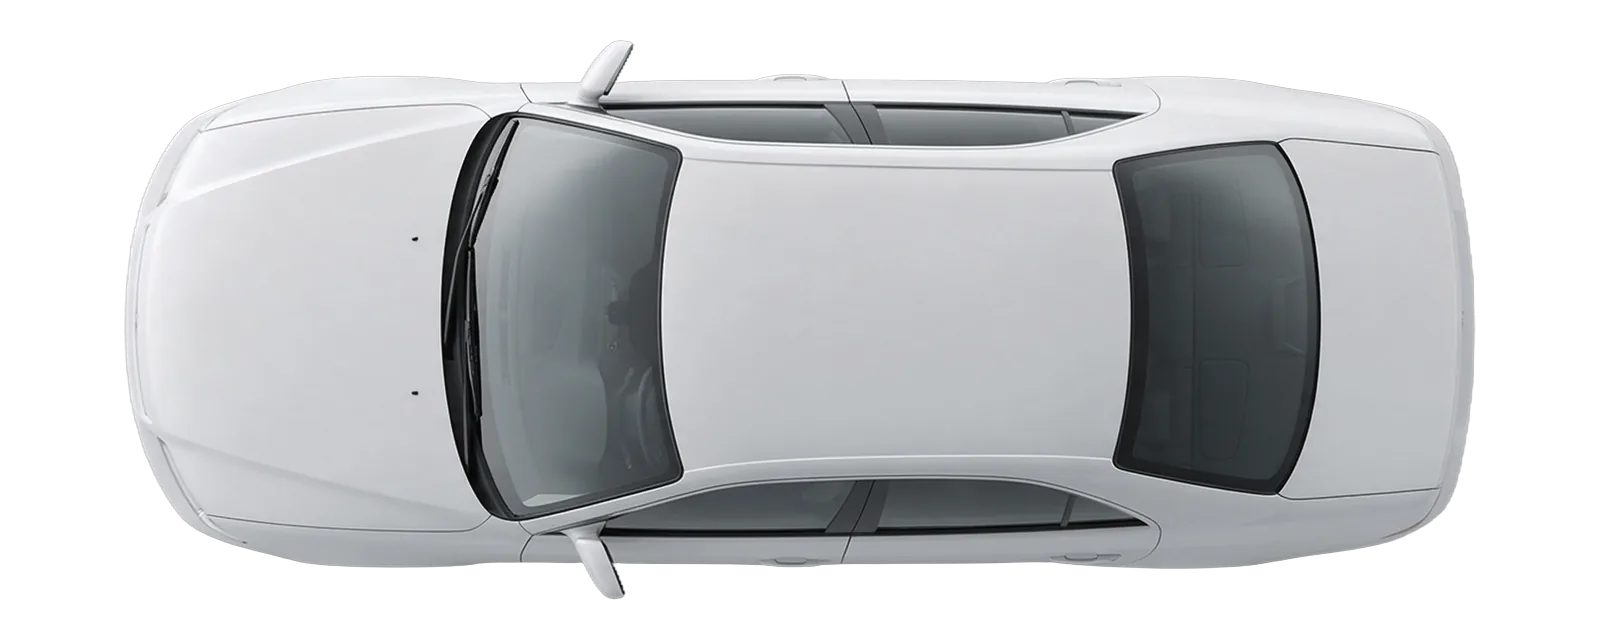
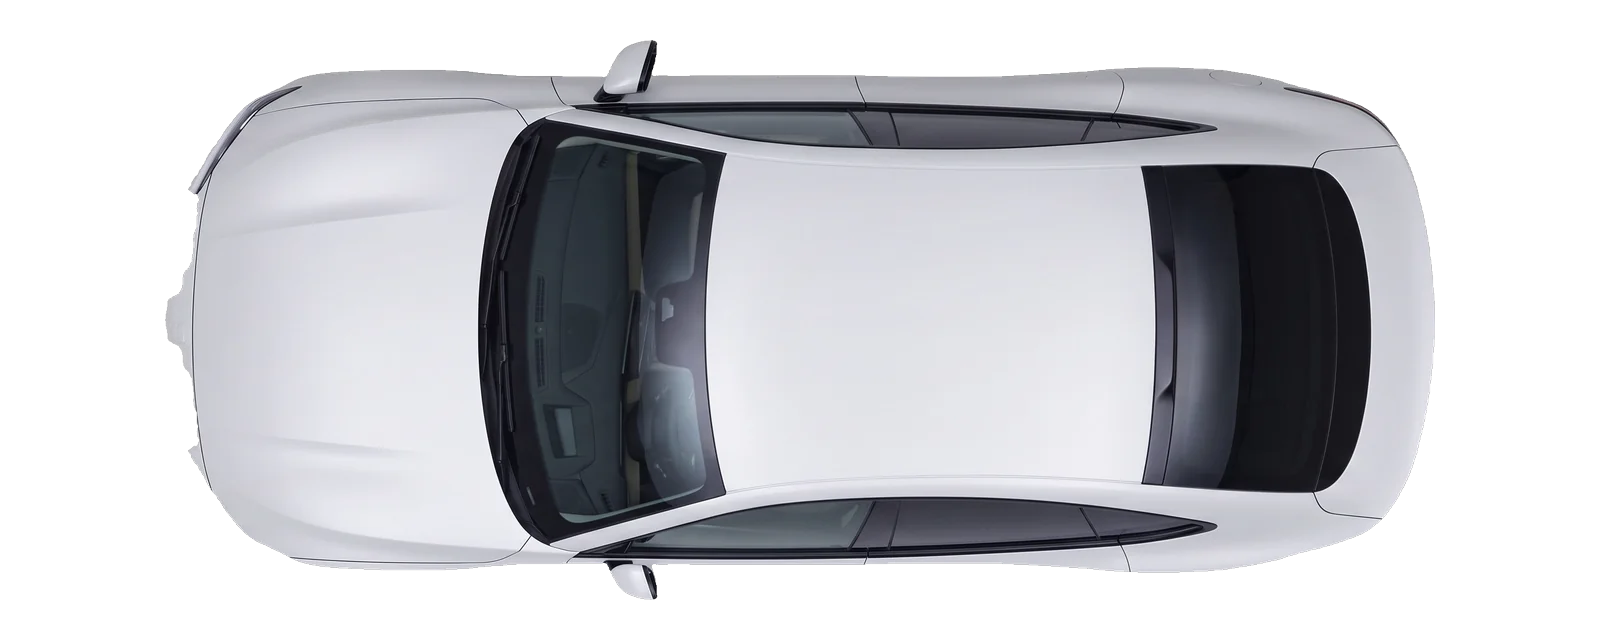
Calculator: modern car photos and panel outlines traced on the real panel gaps
- New studio photos (Freepik, Nano Banana Pro): modern white sedan, hatchback, estate, SUV
  and electric van, side and top views made from the same car, shadows removed
- scripts/segment_panels.py: paintable-body mask, then a watershed from one seed per panel
  over the panel-gap lines; regions vectorised into SVG paths (data/calculator-geometry.ts),
  window line detected from the glass
- Top views: hood, roof and tailgate only (central band); tailgate always counted

diff --git a/data/calculator-geometry.ts b/data/calculator-geometry.ts
@@ -1,0 +1,3 @@
+// GENERATED by scripts/segment_panels.py: panel outlines traced on the
+// calculator photos by a watershed over the real panel gaps. Do not edit by hand.
+export const geometry = {"sedan": {"side": {"panels": [["bara-fata", "M239,378 L222,369 L201,362 L192,362 L192,365 L184,371 L148,391 L136,394 L81,400 L75,395 L72,383 L70,383 L62,391 L55,403 L54,424 L61,443 L61,458 L56,473 L60,493 L75,516 L79,519 L112,520 L117,517 L117,507 L101,476 L93,453 L92,433 L98,432 L108,450 L126,505 L127,516 L119,525 L113,528 L66,527 L63,519 L60,519 L51,525 L51,529 L62,536 L89,545 L123,551 L176,555 L172,527 L171,499 L174,470 L180,448 L191,426 L201,412 L221,392 L239,381Z"], ["aripa-fata", "M514,287 L454,287 L431,284 L409,284 L332,292 L250,305 L186,321 L145,336 L103,357 L95,363 L94,367 L88,368 L78,376 L77,379 L81,380 L81,386 L109,381 L111,377 L93,380 L92,375 L96,372 L123,366 L169,360 L201,361 L222,368 L240,378 L244,378 L271,368 L294,365 L317,366 L348,374 L368,384 L386,397 L403,415 L416,435 L423,450 L431,479 L434,505 L434,532 L496,530 L490,511 L489,491 L482,440 L480,412 L480,361 L483,338 L490,317 L498,305 L506,297 L508,297 L508,294 L514,289Z"], ["usa-fata", "M865,285 L609,295 L600,297 L584,296 L581,307 L590,316 L589,322 L578,322 L567,316 L545,310 L543,308 L545,298 L506,298 L496,309 L488,324 L483,343 L481,361 L481,412 L483,440 L490,491 L491,511 L497,530 L852,523 L847,500 L849,475 L848,369 L853,322Z"], ["usa-spate", "M1179,275 L1163,274 L1115,277 L867,285 L856,314 L850,352 L850,475 L848,500 L853,521 L891,522 L1025,518 L1046,515 L1062,507 L1077,490 L1116,434 L1183,330 L1191,313 L1193,299 L1190,291Z"], ["aripa-spate", "M1403,302 L1400,300 L1375,301 L1371,298 L1356,298 L1353,301 L1318,298 L1302,300 L1276,299 L1274,301 L1232,300 L1196,302 L1196,306 L1193,307 L1190,318 L1174,347 L1096,465 L1121,463 L1128,442 L1136,426 L1146,412 L1165,393 L1176,385 L1197,374 L1211,369 L1242,364 L1271,366 L1305,377 L1321,386 L1332,395 L1335,395 L1347,385 L1409,322 L1408,319 L1397,312 L1397,307 L1403,305Z"], ["bara-spate", "M1532,326 L1517,328 L1459,328 L1429,326 L1410,322 L1347,386 L1336,395 L1336,398 L1359,426 L1373,459 L1379,499 L1377,537 L1384,537 L1462,522 L1503,488 L1532,460 L1549,447 L1549,437 L1547,431 L1547,405 L1545,400 L1533,387 L1529,375 L1530,359 L1534,339 L1534,329Z"], ["oglinda", "M602,250 L586,250 L577,252 L562,262 L555,273 L557,283 L560,286 L574,285 L581,283 L584,276 L609,275 L608,261Z"]], "belt": [[0, 302], [50, 302], [100, 302], [150, 302], [200, 302], [250, 302], [300, 302], [350, 302], [400, 302], [450, 302], [500, 302], [550, 302], [600, 299], [650, 297], [700, 294], [750, 292], [800, 291], [850, 289], [900, 287], [950, 285], [1000, 283], [1050, 281], [1100, 280], [1150, 278], [1200, 274], [1250, 274], [1300, 274], [1350, 293], [1400, 317], [1450, 330], [1500, 331], [1550, 331], [1600, 331]]}, "top": {"panels": [["capota", "M228,187 L208,207 L197,221 L197,227 L193,238 L193,257 L188,268 L188,284 L183,287 L182,297 L177,302 L170,304 L167,310 L167,324 L169,332 L175,334 L179,333 L183,337 L185,350 L187,350 L187,341 L189,341 L189,372 L190,374 L194,375 L197,415 L199,420 L205,425 L206,428 L233,455 L242,460 L244,463 L257,469 L307,484 L380,488 L445,488 L499,485 L489,450 L480,396 L477,357 L477,300 L481,254 L487,217 L494,187 L505,153 L445,149 L380,149 L307,153 L248,172Z"], ["plafon", "M1312,163 L1300,162 L1259,153 L1242,151 L1237,152 L1222,149 L1210,150 L1192,148 L1125,148 L1076,152 L1060,151 L1001,154 L725,153 L725,160 L716,197 L711,231 L706,293 L706,360 L698,361 L701,365 L701,369 L699,370 L699,383 L693,383 L693,377 L688,368 L674,367 L680,394 L679,402 L682,416 L687,422 L697,445 L700,446 L695,399 L700,398 L705,404 L710,405 L715,445 L724,484 L1001,483 L1086,486 L1106,489 L1183,489 L1183,487 L1143,485 L1141,483 L1149,434 L1154,364 L1154,289 L1152,252 L1141,166 L1150,164 L1266,163 L1312,166Z"], ["portbagaj", "M1314,164 L1315,167 L1330,173 L1347,194 L1359,226 L1367,266 L1371,309 L1370,372 L1362,425 L1354,452 L1348,466 L1352,466 L1370,460 L1386,450 L1408,425 L1416,409 L1429,367 L1433,340 L1434,306 L1432,301 L1431,282 L1426,258 L1416,228 L1408,213 L1397,198 L1386,187 L1370,177 L1357,172 L1321,164Z"]]}}, "hatchback": {"side": {"panels": [["bara-fata", "M195,330 L174,332 L174,336 L171,339 L148,339 L95,343 L95,348 L147,345 L148,351 L144,362 L150,362 L151,367 L134,375 L73,390 L65,394 L54,407 L52,412 L52,441 L55,442 L55,446 L62,448 L67,453 L82,490 L91,518 L130,515 L135,519 L139,519 L140,521 L159,529 L185,533 L193,537 L207,536 L205,500 L207,476 L212,454 L218,438 L228,420 L241,403 L257,388 L257,385Z"], ["aripa-fata", "M522,515 L506,445 L498,399 L494,356 L494,330 L502,276 L509,266 L510,261 L524,247 L524,245 L464,247 L463,242 L467,239 L467,237 L459,239 L458,246 L439,245 L424,242 L396,244 L390,246 L376,246 L306,254 L225,266 L183,275 L140,290 L101,310 L99,315 L95,315 L71,334 L71,336 L85,336 L134,332 L184,331 L195,329 L258,385 L261,385 L272,377 L296,366 L323,360 L359,361 L392,371 L404,377 L421,389 L437,405 L454,430 L460,443 L467,466 L471,490 L472,515Z"], ["usa-fata", "M898,243 L807,247 L592,262 L592,268 L599,271 L599,277 L595,280 L584,280 L570,272 L565,272 L550,267 L508,268 L503,276 L496,319 L496,373 L505,435 L519,500 L524,515 L884,511 L885,508 L880,491 L883,445 L882,361 L887,301Z"], ["usa-spate", "M1238,231 L1088,234 L901,242 L898,247 L890,287 L884,343 L884,445 L881,491 L886,510 L913,511 L1075,508 L1089,504 L1098,498 L1110,482 L1148,419 L1204,319 L1233,257 L1238,242Z"], ["aripa-spate", "M1520,253 L1513,243 L1505,236 L1478,232 L1462,232 L1345,155 L1346,150 L1389,137 L1394,137 L1404,142 L1411,143 L1409,135 L1419,130 L1422,121 L1420,118 L1307,102 L1320,138 L1317,140 L1277,130 L1212,119 L1212,121 L1242,149 L1291,202 L1298,212 L1298,218 L1292,226 L1280,231 L1240,231 L1239,242 L1228,272 L1205,319 L1184,356 L1181,365 L1184,368 L1191,370 L1203,359 L1228,346 L1249,339 L1280,334 L1300,334 L1334,340 L1357,349 L1374,359 L1377,359 L1426,314 L1434,309 L1434,307 L1470,272 L1480,269 L1519,265Z"], ["bara-spate", "M1520,287 L1504,292 L1498,306 L1493,311 L1431,311 L1360,375 L1362,379 L1375,388 L1390,403 L1410,435 L1417,454 L1421,472 L1423,491 L1422,518 L1442,517 L1453,515 L1454,513 L1471,512 L1474,507 L1478,506 L1496,492 L1516,481 L1521,481 L1524,483 L1523,493 L1527,493 L1539,483 L1542,469 L1548,463 L1547,444 L1549,403 L1547,381 L1544,373 L1530,357 L1525,345 L1519,341 L1517,329 L1517,307Z"]], "belt": [[0, 299], [50, 299], [100, 299], [150, 299], [200, 299], [250, 299], [300, 299], [350, 299], [400, 299], [450, 299], [500, 299], [550, 270], [600, 264], [650, 261], [700, 259], [750, 257], [800, 254], [850, 249], [900, 245], [950, 243], [1000, 242], [1050, 241], [1100, 240], [1150, 239], [1200, 298], [1250, 297], [1300, 297], [1350, 297], [1400, 297], [1450, 303], [1500, 303], [1550, 303], [1600, 303]]}, "top": {"panels": [["capota", "M519,151 L392,153 L357,158 L305,172 L258,209 L249,221 L235,254 L235,259 L233,260 L231,272 L229,275 L226,275 L224,303 L227,304 L228,335 L224,336 L226,362 L229,363 L232,368 L235,383 L245,404 L247,412 L253,422 L263,433 L305,465 L361,480 L392,484 L522,486 L510,446 L503,410 L498,369 L496,325 L497,279 L501,234 L508,192Z"], ["plafon", "M734,152 L734,160 L729,178 L723,217 L718,276 L719,370 L724,417 L734,462 L734,469 L732,473 L726,477 L701,483 L701,485 L744,485 L787,478 L839,475 L1004,475 L1119,479 L1131,486 L1227,484 L1228,482 L1250,472 L1263,461 L1272,448 L1276,439 L1285,390 L1291,310 L1289,307 L1288,273 L1284,231 L1276,189 L1267,170 L1254,157 L1231,153 L1197,151 L923,153 L856,152 L844,149 L813,148 L798,151Z"]]}}, "break": {"side": {"panels": [["bara-fata", "M230,390 L184,377 L159,394 L155,394 L154,392 L146,392 L145,394 L123,396 L125,399 L124,404 L116,404 L109,407 L93,407 L94,415 L92,417 L86,417 L80,420 L73,428 L68,438 L64,439 L64,447 L54,466 L62,474 L66,474 L67,466 L82,455 L96,451 L97,457 L99,457 L100,450 L108,450 L112,452 L122,462 L133,479 L147,508 L148,521 L146,525 L135,535 L125,538 L124,533 L126,525 L113,523 L78,491 L70,487 L64,487 L57,493 L57,496 L62,503 L64,519 L69,536 L80,541 L163,546 L179,545 L179,492 L186,455 L190,444 L203,420 L210,411 L230,392ZM176,358 L164,357 L163,361 L159,361 L158,359 L150,359 L112,367 L103,370 L102,374 L91,378 L90,382 L103,382 L121,376 L136,376 L144,378 L144,386 L147,388 L146,379 L151,378 L151,376 L147,374 L146,368 L176,362Z"], ["aripa-fata", "M525,275 L502,270 L482,278 L467,281 L447,280 L437,277 L413,278 L407,280 L346,286 L250,303 L181,321 L119,343 L83,362 L74,370 L74,374 L83,374 L98,368 L108,368 L128,362 L156,358 L159,355 L186,356 L192,358 L195,361 L195,367 L187,374 L187,377 L228,389 L234,389 L244,382 L263,373 L299,365 L326,366 L360,375 L378,384 L399,400 L415,418 L425,434 L433,452 L440,477 L445,527 L505,525 L496,489 L491,447 L488,393 L489,358 L496,314 L509,293 L525,277Z"], ["usa-fata", "M864,279 L581,294 L579,296 L581,305 L580,310 L565,309 L545,297 L507,298 L499,310 L496,318 L491,347 L489,380 L490,420 L495,476 L506,524 L533,525 L852,516 L845,467 L846,380 L853,319Z"], ["usa-spate", "M1204,271 L1109,271 L866,279 L859,298 L854,319 L847,380 L846,467 L853,516 L1017,511 L1044,507 L1063,498 L1073,488 L1082,475 L1107,432 L1135,389 L1202,299 L1207,289Z"], ["aripa-spate", "M1087,469 L1113,468 L1119,447 L1130,426 L1141,411 L1169,386 L1197,372 L1214,367 L1236,364 L1251,364 L1272,367 L1305,379 L1321,389 L1336,403 L1340,403 L1388,389 L1426,375 L1432,371 L1443,358 L1457,328 L1414,312 L1409,307 L1409,302 L1411,300 L1409,295 L1273,291 L1260,289 L1207,290 L1196,309 L1136,389 L1108,432Z"], ["bara-spate", "M1522,336 L1519,336 L1511,341 L1502,341 L1459,329 L1442,361 L1426,376 L1388,390 L1339,404 L1357,431 L1367,454 L1373,479 L1376,511 L1443,495 L1489,481 L1502,475 L1534,450 L1545,445 L1545,430 L1538,432 L1533,431 L1533,427 L1545,422Z"], ["oglinda", "M617,257 L610,247 L604,245 L589,246 L567,259 L561,266 L558,274 L616,272 L615,260Z"]], "belt": [[0, 300], [50, 300], [100, 300], [150, 300], [200, 300], [250, 300], [300, 300], [350, 300], [400, 300], [450, 300], [500, 300], [550, 300], [600, 295], [650, 292], [700, 291], [750, 289], [800, 285], [850, 283], [900, 281], [950, 279], [1000, 278], [1050, 277], [1100, 277], [1150, 276], [1200, 274], [1250, 273], [1300, 273], [1350, 273], [1400, 273], [1450, 329], [1500, 331], [1550, 331], [1600, 331]]}, "top": {"panels": [["capota", "M446,150 L416,148 L232,149 L197,153 L181,158 L167,160 L150,167 L137,176 L123,191 L108,218 L88,239 L87,244 L80,253 L78,258 L79,272 L73,273 L71,276 L70,285 L65,298 L65,309 L63,311 L63,326 L65,328 L67,346 L69,348 L71,360 L80,384 L91,401 L108,419 L115,430 L115,433 L132,456 L145,467 L161,475 L210,486 L242,488 L416,489 L471,486 L460,452 L449,406 L442,359 L438,316 L437,236 L441,183Z"], ["plafon", "M583,495 L595,503 L603,504 L633,495 L634,486 L663,487 L702,476 L737,469 L790,463 L885,458 L1059,456 L1188,459 L1262,467 L1305,475 L1327,481 L1354,480 L1413,472 L1413,470 L1379,462 L1346,449 L1334,439 L1331,434 L1329,424 L1113,433 L1098,432 L1099,427 L1110,427 L1111,425 L1118,424 L1119,419 L1138,419 L1139,423 L1141,423 L1142,418 L1150,418 L1151,423 L1159,423 L1160,418 L1165,418 L1166,422 L1168,422 L1169,417 L1175,417 L1176,422 L1211,422 L1233,420 L1234,415 L1329,412 L1329,155 L1272,149 L1096,149 L1070,151 L696,149 L686,150 L679,219 L678,281 L684,365 L691,410 L700,448 L706,449 L753,439 L759,439 L760,443 L784,442 L785,448 L744,453 L701,461 L583,493Z"], ["portbagaj", "M1330,155 L1330,428 L1333,436 L1340,444 L1350,450 L1353,450 L1355,447 L1374,439 L1394,426 L1404,416 L1414,397 L1429,345 L1429,336 L1432,324 L1435,291 L1434,222 L1426,168 L1396,162Z"]]}}, "suv": {"side": {"panels": [["bara-fata", "M184,298 L163,311 L139,322 L117,325 L66,327 L63,330 L59,363 L59,378 L54,394 L54,406 L56,407 L59,417 L59,424 L53,435 L53,439 L62,456 L66,468 L73,477 L80,480 L124,483 L125,488 L119,493 L72,491 L65,484 L65,480 L62,480 L54,486 L55,494 L61,495 L88,510 L96,508 L112,508 L116,510 L130,510 L139,513 L164,516 L180,514 L180,485 L164,484 L165,463 L170,437 L180,409 L191,389 L204,372 L225,353 L225,350 L187,304Z"], ["aripa-fata", "M534,214 L508,216 L505,212 L502,212 L497,216 L486,217 L435,216 L420,212 L374,214 L263,226 L195,237 L136,252 L98,267 L75,281 L73,287 L66,294 L60,297 L59,304 L61,306 L149,298 L150,305 L153,305 L153,297 L180,295 L183,297 L183,293 L188,289 L188,287 L71,301 L70,296 L79,292 L113,287 L211,277 L212,283 L224,282 L224,277 L227,275 L244,275 L243,280 L224,292 L213,295 L186,298 L188,304 L227,352 L200,378 L181,409 L170,441 L166,463 L165,484 L180,483 L184,449 L193,421 L207,396 L228,373 L253,356 L279,346 L306,341 L335,341 L364,347 L389,357 L417,377 L433,395 L449,423 L456,443 L463,479 L465,517 L474,517 L475,515 L517,513 L518,505 L511,455 L504,355 L504,313 L507,282 L512,257 L523,230 L534,217Z"], ["usa-fata", "M875,218 L647,229 L630,228 L627,230 L604,229 L603,231 L596,231 L594,234 L595,239 L600,244 L599,249 L592,248 L563,234 L522,235 L512,261 L505,313 L505,355 L508,409 L519,512 L529,513 L540,509 L549,508 L552,505 L862,497 L861,464 L858,438 L861,392 L862,297 L865,265Z"], ["usa-spate", "M1198,206 L1159,206 L878,217 L868,253 L863,297 L862,392 L859,423 L863,497 L867,499 L1000,499 L1019,502 L1034,502 L1042,504 L1043,506 L1065,509 L1066,511 L1069,509 L1079,510 L1087,508 L1104,508 L1108,504 L1111,461 L1121,422 L1128,406 L1137,391 L1149,376 L1163,363 L1185,349 L1189,343 L1201,285 L1206,237 L1205,222Z"], ["aripa-spate", "M1540,222 L1535,213 L1525,203 L1517,198 L1199,205 L1206,222 L1207,237 L1202,285 L1190,345 L1215,337 L1240,333 L1262,333 L1290,338 L1307,344 L1328,355 L1353,376 L1370,399 L1381,423 L1386,440 L1406,438 L1450,428 L1461,421 L1482,403 L1490,399 L1490,396 L1498,390 L1517,384 L1542,380 L1546,377 L1548,373 L1548,350 L1544,348 L1544,343 L1538,332 L1536,324 L1536,310 L1543,271 L1543,262 L1541,259 L1519,262 L1441,260 L1432,257 L1409,238 L1409,232 L1412,230 L1532,226 L1540,225Z"], ["bara-spate", "M1545,380 L1543,380 L1542,391 L1525,396 L1487,401 L1450,429 L1387,442 L1392,475 L1393,497 L1398,497 L1398,495 L1402,493 L1437,490 L1439,488 L1456,484 L1475,483 L1483,485 L1490,482 L1514,460 L1541,426 L1548,421Z"], ["oglinda", "M630,184 L625,178 L618,175 L610,175 L589,182 L581,190 L573,204 L573,207 L579,215 L619,214 L621,213 L622,206 L633,206Z"]], "belt": [[0, 330], [50, 330], [100, 328], [150, 320], [200, 300], [250, 286], [300, 271], [350, 257], [400, 242], [450, 237], [500, 234], [550, 231], [600, 231], [650, 231], [700, 229], [750, 226], [800, 225], [850, 223], [900, 219], [950, 217], [1000, 215], [1050, 213], [1100, 212], [1150, 212], [1200, 211], [1250, 210], [1300, 205], [1350, 205], [1400, 205], [1450, 263], [1500, 264], [1550, 264], [1600, 264]]}, "top": {"panels": [["capota", "M224,172 L209,191 L186,215 L174,231 L170,241 L168,269 L168,340 L170,370 L175,407 L186,422 L196,431 L222,463 L230,469 L245,475 L287,486 L291,485 L301,488 L326,490 L487,490 L477,466 L465,425 L458,376 L455,330 L455,279 L458,235 L464,191 L475,146 L372,146 L300,149 L245,162Z"], ["plafon", "M1353,164 L1313,155 L1274,150 L1273,163 L1129,156 L1131,343 L1128,442 L1273,437 L1273,451 L1154,456 L793,465 L747,469 L707,475 L667,485 L667,487 L736,487 L781,482 L866,479 L1281,478 L1303,474 L1325,466 L1340,457 L1351,442 L1361,408 L1367,365 L1369,338 L1368,255 L1363,209Z"]]}}, "utilitara": {"side": {"panels": [["bara-fata", "M257,349 L179,356 L178,361 L171,361 L170,357 L168,357 L168,361 L164,363 L134,366 L134,370 L169,367 L170,371 L173,371 L174,366 L185,366 L186,369 L192,370 L191,375 L136,381 L132,377 L132,369 L129,369 L129,375 L122,386 L122,433 L125,447 L114,463 L116,493 L124,499 L133,511 L158,512 L165,510 L166,515 L159,523 L126,522 L123,525 L124,528 L171,531 L213,531 L216,497 L223,474 L234,454 L241,445 L255,433 L255,431 L241,417 L209,373 L201,371 L201,365 L212,356 L257,352Z"], ["aripa-fata", "M375,296 L357,295 L316,298 L260,297 L244,300 L190,318 L156,334 L137,347 L131,360 L156,356 L170,356 L174,354 L182,355 L210,351 L216,352 L277,346 L278,352 L268,362 L253,366 L210,372 L212,377 L242,417 L255,430 L259,430 L278,419 L304,413 L336,414 L355,419 L370,427 L374,427Z"], ["usa-fata", "M626,131 L514,136 L490,140 L476,146 L476,148 L498,149 L532,145 L594,142 L601,143 L610,149 L613,155 L613,169 L602,252 L595,267 L582,277 L568,283 L552,286 L405,293 L404,301 L399,301 L387,294 L376,295 L375,427 L376,431 L389,441 L399,452 L413,476 L421,502 L424,529 L611,526 L614,387 L622,365 L625,338 L628,133Z"], ["usa-culisanta", "M960,43 L689,45 L641,48 L641,408 L643,526 L964,523 L966,521 L966,319 L964,304 L965,254 L963,120Z"], ["panou-lateral", "M417,178 L417,180 L419,180 L427,174 L453,149 L471,148 L477,144 L494,138 L525,134 L626,130 L629,133 L626,338 L623,365 L615,387 L614,433 L641,433 L639,136 L640,48 L644,46 L689,44 L959,41 L962,49 L966,289 L970,290 L972,294 L975,295 L975,299 L972,300 L972,304 L966,305 L967,522 L1004,523 L1096,521 L1100,490 L1106,473 L1118,452 L1134,435 L1148,425 L1163,418 L1182,413 L1208,412 L1230,416 L1248,423 L1270,439 L1283,454 L1294,474 L1300,495 L1303,523 L1376,516 L1426,516 L1429,446 L1434,440 L1465,438 L1463,313 L1467,304 L1467,290 L1461,254 L1460,225 L1456,219 L1456,209 L1460,208 L1460,204 L1456,198 L1453,183 L1444,100 L1437,67 L1427,43 L1420,38 L1409,35 L1353,31 L1026,30 L728,33 L657,35 L629,38 L599,45 L558,60 L523,79 L478,112 L442,142 L438,148 L442,148 L443,153Z"], ["bara-spate", "M1471,417 L1466,417 L1466,420 L1468,421 L1466,423 L1465,439 L1434,441 L1430,446 L1428,518 L1445,517 L1447,514 L1483,500 L1484,482 L1477,474 L1474,464 L1474,442 L1472,440 L1473,419Z"]], "belt": [[0, 301], [50, 301], [100, 301], [150, 301], [200, 301], [250, 301], [300, 301], [350, 300], [400, 299], [450, 294], [500, 291], [550, 291], [600, 291], [650, 343], [700, 343], [750, 343], [800, 343], [850, 343], [900, 343], [950, 343], [1000, 343], [1050, 343], [1100, 343], [1150, 343], [1200, 343], [1250, 343], [1300, 343], [1350, 343], [1400, 343], [1450, 343], [1500, 343], [1550, 343], [1600, 343]]}, "top": {"panels": [["capota", "M273,155 L221,164 L196,171 L193,170 L183,175 L169,187 L139,235 L136,252 L135,276 L132,291 L130,292 L130,303 L128,308 L129,334 L134,335 L134,340 L130,341 L130,345 L133,351 L137,399 L148,419 L154,425 L159,437 L169,450 L184,463 L193,467 L228,473 L255,480 L282,482 L274,456 L267,416 L261,335 L262,275 L265,238 L273,188 L283,155Z"], ["plafon", "M1459,185 L1454,176 L1449,172 L1428,166 L1416,166 L1410,164 L1349,164 L1309,162 L1300,160 L1262,158 L1246,155 L1210,153 L1143,155 L1104,159 L462,159 L452,219 L447,298 L447,338 L450,395 L455,438 L463,478 L645,479 L1104,478 L1139,482 L1210,484 L1248,482 L1254,480 L1268,480 L1273,478 L1300,477 L1309,475 L1411,473 L1416,471 L1439,469 L1453,463 L1459,452 L1459,430 L1464,410 L1469,364 L1471,359 L1473,308 L1471,299 L1471,279 L1469,274 L1464,227 L1459,208Z"]]}}} as const

diff --git a/data/calculator.ts b/data/calculator.ts
@@ -2,6 +2,8 @@
 // Prices: one price per panel per body type; inscription and logo are separate rates.
 // PROVISIONAL values until B360 sends the real price list (see PRICES_PROVISIONAL).
 
+import { geometry } from "./calculator-geometry"
+
 export type BodyId = "hatchback" | "sedan" | "break" | "suv" | "utilitara"
 export type Mode = "colantare" | "inscriptionare" | "logo"
 export type View = "stanga" | "dreapta" | "sus"
@@ -42,116 +44,33 @@ export const panelLabel = (id: string) => {
 export const panelKind = (id: string) => id.replace(/-(st|dr)$/, "") as PanelKind
 
 // ---------- photo geometry ----------
-// Each body type has two photos (public/calculator/<id>-side.webp and <id>-top.webp), 1600 x 640,
-// car facing left on a transparent background. Panels are outlined on the photo in those pixel
-// coordinates; the colour is laid only over the car itself (the photo's alpha) in multiply mode,
-// so the car's own light and shadow show through like a real film. The right side is the left
-// photo mirrored.
+// Each body type has two photos (public/calculator/<id>-side.webp and <id>-top.webp, 1600 x 640,
+// car facing left, transparent background) and a mask of its paintable body (<id>-<view>-paint.webp).
+// The panel outlines are traced automatically on the photos along the real panel gaps
+// (data/calculator-geometry.ts, generated); the right side is the left photo mirrored.
 type Pt = [number, number]
 export type SideGeometry = {
-    panels: [PanelKind, Pt[]][]   // each panel's outline on the side photo
-    belt: Pt[]                    // window line, front to back: inscription covers what is below it
+    panels: [PanelKind, string][]   // [panel, SVG path of its outline on the side photo]
+    belt: Pt[]                      // window line, front to back: inscription covers what is below it
 }
-export type TopGeometry = {
-    // vertical bands on the top photo: [panel kind, x from, x to]; glass between them is skipped
-    panels: [PanelKind, number, number][]
-}
+export type TopGeometry = { panels: [PanelKind, string][] }
 export type BodyType = { id: BodyId; label: string; side: SideGeometry; top: TopGeometry }
 
-export const bodyTypes: BodyType[] = [
-    {
-        id: "hatchback",
-        label: "Hatchback",
-        side: {
-            panels: [
-                ["bara-fata", [[95, 330], [200, 320], [240, 410], [240, 530], [95, 525]]],
-                ["aripa-fata", [[130, 290], [440, 262], [505, 275], [500, 330], [512, 505], [480, 530], [240, 530], [240, 410], [200, 320]]],
-                ["usa-fata", [[505, 275], [555, 240], [700, 125], [895, 115], [885, 500], [512, 505], [500, 330]]],
-                ["usa-spate", [[895, 115], [1155, 125], [1245, 240], [1230, 330], [1180, 420], [1100, 495], [885, 500]]],
-                ["aripa-spate", [[1155, 125], [1320, 125], [1440, 230], [1475, 270], [1495, 390], [1420, 400], [1300, 370], [1200, 420], [1100, 495], [1180, 420], [1230, 330], [1245, 240]]],
-                ["bara-spate", [[1420, 400], [1495, 390], [1505, 460], [1490, 520], [1400, 525], [1395, 450]]],
-                ["oglinda", [[555, 240], [590, 222], [615, 232], [605, 288], [560, 280]]],
-            ],
-            belt: [[0, 282], [510, 278], [890, 258], [1245, 245], [1600, 240]],
-        },
-        top: { panels: [["bara-fata", 173, 225], ["capota", 225, 464], ["plafon", 712, 1248], ["portbagaj", 1248, 1400], ["bara-spate", 1400, 1430]] },
-    },
-    {
-        id: "sedan",
-        label: "Sedan",
-        side: {
-            panels: [
-                ["bara-fata", [[50, 330], [140, 330], [195, 420], [195, 530], [50, 530]]],
-                ["aripa-fata", [[140, 270], [470, 255], [468, 330], [478, 470], [460, 530], [200, 530], [195, 420], [140, 330]]],
-                ["usa-fata", [[470, 255], [520, 240], [650, 140], [860, 125], [850, 500], [500, 512], [480, 480], [468, 330]]],
-                ["usa-spate", [[860, 125], [1110, 130], [1230, 250], [1220, 330], [1170, 400], [1110, 470], [1060, 500], [850, 500]]],
-                ["aripa-spate", [[1110, 130], [1380, 225], [1515, 240], [1495, 370], [1340, 385], [1130, 505], [1060, 505], [1110, 470], [1170, 400], [1220, 330], [1232, 250]]],
-                ["bara-spate", [[1340, 385], [1495, 370], [1550, 385], [1545, 520], [1360, 525]]],
-                ["oglinda", [[500, 262], [525, 235], [580, 232], [580, 282], [505, 285]]],
-            ],
-            belt: [[0, 272], [500, 272], [860, 262], [1230, 255], [1600, 250]],
-        },
-        top: { panels: [["bara-fata", 124, 175], ["capota", 175, 464], ["plafon", 672, 1104], ["portbagaj", 1320, 1448], ["bara-spate", 1448, 1480]] },
-    },
-    {
-        id: "break",
-        label: "Break",
-        side: {
-            panels: [
-                ["bara-fata", [[55, 350], [170, 345], [205, 430], [205, 540], [55, 525]]],
-                ["aripa-fata", [[100, 330], [420, 285], [490, 290], [488, 350], [500, 520], [470, 545], [205, 540], [205, 430], [170, 345]]],
-                ["usa-fata", [[490, 290], [540, 250], [690, 150], [870, 145], [850, 515], [500, 520], [488, 350]]],
-                ["usa-spate", [[870, 145], [1155, 150], [1220, 255], [1210, 340], [1150, 420], [1105, 510], [850, 515]]],
-                ["aripa-spate", [[1155, 150], [1345, 150], [1440, 225], [1500, 260], [1520, 330], [1525, 400], [1400, 410], [1300, 380], [1180, 450], [1105, 510], [1150, 420], [1210, 340], [1220, 255]]],
-                ["bara-spate", [[1400, 410], [1525, 400], [1550, 430], [1545, 520], [1380, 530], [1370, 460]]],
-                ["oglinda", [[540, 262], [560, 245], [595, 248], [590, 290], [545, 288]]],
-            ],
-            belt: [[0, 295], [495, 290], [865, 275], [1220, 265], [1600, 260]],
-        },
-        top: { panels: [["bara-fata", 133, 185], ["capota", 185, 416], ["plafon", 648, 1304], ["portbagaj", 1304, 1440], ["bara-spate", 1440, 1470]] },
-    },
-    {
-        id: "suv",
-        label: "SUV",
-        side: {
-            panels: [
-                ["bara-fata", [[60, 330], [160, 310], [220, 370], [225, 500], [60, 500]]],
-                ["aripa-fata", [[95, 285], [420, 215], [510, 220], [505, 300], [512, 450], [480, 480], [225, 480], [220, 370], [160, 310]]],
-                ["usa-fata", [[510, 220], [560, 175], [700, 75], [905, 65], [895, 440], [512, 450], [505, 300]]],
-                ["usa-spate", [[905, 65], [1185, 75], [1245, 180], [1250, 300], [1210, 330], [1140, 420], [890, 440]]],
-                ["aripa-spate", [[1185, 75], [1300, 70], [1390, 90], [1460, 180], [1500, 240], [1520, 380], [1420, 390], [1320, 330], [1250, 300], [1245, 180]]],
-                ["bara-spate", [[1420, 390], [1520, 380], [1540, 440], [1520, 500], [1400, 505]]],
-                ["oglinda", [[560, 190], [600, 165], [630, 180], [625, 225], [565, 220]]],
-            ],
-            belt: [[0, 225], [510, 222], [900, 210], [1245, 200], [1600, 195]],
-        },
-        top: { panels: [["bara-fata", 171, 225], ["capota", 225, 464], ["plafon", 688, 1240], ["portbagaj", 1240, 1405], ["bara-spate", 1405, 1430]] },
-    },
-    {
-        id: "utilitara",
-        label: "Utilitară",
-        side: {
-            panels: [
-                ["bara-fata", [[135, 400], [250, 395], [255, 470], [250, 545], [135, 540]]],
-                ["aripa-fata", [[150, 370], [190, 330], [300, 300], [355, 345], [355, 440], [420, 500], [430, 545], [255, 545], [255, 470], [250, 395], [135, 400]]],
-                ["usa-fata", [[300, 300], [460, 180], [600, 162], [595, 420], [575, 530], [430, 545], [420, 500], [355, 440], [355, 345]]],
-                ["usa-culisanta", [[605, 40], [930, 35], [930, 540], [580, 540], [600, 420]]],
-                ["panou-lateral", [[930, 35], [1385, 30], [1420, 45], [1450, 300], [1450, 425], [1305, 425], [1250, 470], [1190, 500], [1130, 540], [930, 540]]],
-                ["bara-spate", [[1305, 425], [1460, 425], [1465, 535], [1320, 540], [1300, 470]]],
-                ["oglinda", [[365, 265], [385, 262], [395, 330], [370, 340], [360, 300]]],
-            ],
-            belt: [[0, 340], [600, 335], [1600, 335]],
-        },
-        top: { panels: [["bara-fata", 91, 140], ["capota", 140, 240], ["plafon", 419, 1500]] },
-    },
-]
+const labels: Record<BodyId, string> = { hatchback: "Hatchback", sedan: "Sedan", break: "Break", suv: "SUV", utilitara: "Utilitară" }
+export const bodyTypes: BodyType[] = (Object.keys(labels) as BodyId[]).map(id => ({
+    id,
+    label: labels[id],
+    side: geometry[id].side as unknown as SideGeometry,
+    top: geometry[id].top as unknown as TopGeometry,
+}))
 
 export const bodyType = (id: BodyId) => bodyTypes.find(b => b.id === id)!
 
 // every panel id of a body type, both sides
 export function panelsOf(id: BodyId) {
     const b = bodyType(id)
-    const shared = ["bara-fata", "bara-spate", ...b.top.panels.map(p => p[0]).filter(k => k === "capota" || k === "plafon" || k === "portbagaj")]
+    // the tailgate is barely visible from above on some bodies, but every car has one
+    const shared = ["bara-fata", "bara-spate", "capota", "plafon", ...(id === "utilitara" ? [] : ["portbagaj"])]
     const sides = b.side.panels.map(p => p[0]).filter(k => k !== "bara-fata" && k !== "bara-spate")
     return [...new Set(shared), ...sides.flatMap(k => [`${k}-st`, `${k}-dr`])]
 }

diff --git a/components/CarBlueprint.tsx b/components/CarBlueprint.tsx
@@ -4,10 +4,8 @@ import { useId } from "react"
 import { bodyType, panelLabel, type BodyId, type Mode, type View } from "@/data/calculator"
 import styles from "./CarBlueprint.module.css"
 
-type Pt = [number, number]
 const W = 1600
 const H = 640
-const poly = (points: Pt[]) => "M" + points.map(p => p.join(",")).join(" L") + "Z"
 
 type Props = {
     body: BodyId
@@ -29,9 +27,10 @@ export function CarBlueprint({ body, view, selection, onPick, onHover }: Props) 
     const suffix = view === "dreapta" ? "dr" : "st"
 
     // every clickable panel of this view as [id, outline path]
-    const panels: [string, string][] = top
-        ? b.top.panels.map(([k, x1, x2]) => [k, `M${x1},0 H${x2} V${H} H${x1}Z`])
-        : b.side.panels.map(([k, pts]) => [k === "bara-fata" || k === "bara-spate" ? k : `${k}-${suffix}`, poly(pts)])
+    const panels: [string, string][] = (top ? b.top.panels : b.side.panels).map(([k, d]) => [
+        top || k === "bara-fata" || k === "bara-spate" ? k : `${k}-${suffix}`,
+        d,
+    ])
     const below = top ? null : `M0,${H} L${b.side.belt.map(p => p.join(",")).join(" L")} L${W},${H}Z`
 
     const hover = (id: string | null) => () => onHover(id)

diff --git a/scripts/segment_panels.py b/scripts/segment_panels.py
@@ -1,0 +1,182 @@
+"""Panel segmentation for the calculator photos.
+Usage: python scripts/segment_panels.py <cut-out folder> public/calculator data/calculator-geometry.ts <review folder>
+(cut-outs: cut-<body>.png and cut-top-<body>.png, background removed; needs scikit-image and opencv).
+For each view: normalise the cut-out onto a 1600 x 640 canvas, build the paintable-body mask
+(light, neutral pixels: no glass, tyres, dark trim, lamps), then grow one region per panel from a
+seed point with a watershed over the panel-gap lines (dark thin lines + edges). Each region is
+vectorised into an SVG path. Writes the images to public/calculator and the geometry to
+data/calculator-geometry.ts, plus review overlays to the scratch folder."""
+import json, sys
+import numpy as np
+import cv2
+from PIL import Image
+from skimage.segmentation import watershed
+from skimage.filters import sobel
+from skimage.morphology import black_tophat, disk
+
+SRC, OUT, DATA, REVIEW = sys.argv[1:5]
+W, H = 1600, 640
+
+# seed points per panel (canvas coordinates); "x" = not a panel (absorbs roof strips etc.)
+SEEDS = {
+    "sedan": {
+        "side": {"bara-fata": [(95, 450)], "aripa-fata": [(330, 330), (250, 340)], "usa-fata": [(680, 420), (600, 330)],
+                 "usa-spate": [(980, 420), (1000, 330)], "aripa-spate": [(1300, 330), (1250, 400)], "bara-spate": [(1495, 450)],
+                 "oglinda": [(590, 268)], "x": [(900, 152), (1100, 162), (800, 538)]},
+        "top": {"capota": [(430, 320)], "plafon": [(880, 320)], "portbagaj": [(1385, 320)]},
+    },
+    "hatchback": {
+        "side": {"bara-fata": [(85, 440)], "aripa-fata": [(330, 320), (240, 330)], "usa-fata": [(700, 380), (620, 300)],
+                 "usa-spate": [(1050, 380), (1000, 300)], "aripa-spate": [(1350, 330), (1300, 400)], "bara-spate": [(1510, 440)],
+                 "oglinda": [(600, 222)], "x": [(900, 92), (1150, 98), (800, 521)]},
+        "top": {"capota": [(380, 320)], "plafon": [(940, 320)], "portbagaj": [(1345, 320)]},
+    },
+    "break": {
+        "side": {"bara-fata": [(110, 450)], "aripa-fata": [(330, 340), (250, 350)], "usa-fata": [(680, 420), (600, 340)],
+                 "usa-spate": [(1000, 420), (980, 340)], "aripa-spate": [(1330, 340), (1280, 410)], "bara-spate": [(1505, 470)],
+                 "oglinda": [(592, 262)], "x": [(900, 142), (1200, 150), (800, 537)]},
+        "top": {"capota": [(340, 320)], "plafon": [(970, 320)], "portbagaj": [(1395, 320)]},
+    },
+    "suv": {
+        "side": {"bara-fata": [(85, 440)], "aripa-fata": [(320, 290), (240, 320)], "usa-fata": [(690, 380), (620, 290)],
+                 "usa-spate": [(1030, 380), (1000, 290)], "aripa-spate": [(1330, 300), (1300, 380)], "bara-spate": [(1505, 430)],
+                 "oglinda": [(608, 192)], "x": [(900, 66), (1200, 72)]},
+        "top": {"capota": [(350, 320)], "plafon": [(1150, 320)], "portbagaj": [(1385, 320)]},
+    },
+    "utilitara": {
+        "side": {"bara-fata": [(140, 485)], "aripa-fata": [(265, 380)], "usa-fata": [(500, 420), (540, 330)],
+                 "usa-culisanta": [(800, 400), (800, 200)], "panou-lateral": [(1180, 400), (1180, 200), (1200, 85)], "bara-spate": [(1450, 490)], "x": [(480, 75), (800, 538)]},
+        "top": {"capota": [(225, 320)], "plafon": [(900, 320)]},
+    },
+}
+
+def normalise(path, top):
+    im = Image.open(path).convert("RGBA")
+    a = np.asarray(im).copy()
+    # drop soft shadows the background removal kept
+    a[..., 3] = np.where(a[..., 3] < 170, 0, a[..., 3])
+    if top:
+        # seen from above the car is symmetric about its long axis (the middle of the glass);
+        # a shadow falls on one side only, so keep what is present on both sides
+        lum = a[..., :3].astype(np.float32) @ np.array([0.299, 0.587, 0.114], np.float32) / 255
+        glass = (a[..., 3] > 200) & (lum < 0.3)
+        cy = int(round(np.median(np.where(glass)[0])))
+        m = a[..., 3] > 0
+        mir = np.zeros_like(m)
+        for y in range(m.shape[0]):
+            yy = 2 * cy - y
+            if 0 <= yy < m.shape[0]: mir[y] = m[yy]
+        a[..., 3] = np.where(m & mir, a[..., 3], 0)
+    im = Image.fromarray(a)
+    im = im.crop(Image.fromarray((a[..., 3] > 0).astype(np.uint8) * 255).getbbox())
+    s = min(1500 / im.width, (560 if top else 580) / im.height)
+    im = im.resize((round(im.width * s), round(im.height * s)), Image.LANCZOS)
+    cv = Image.new("RGBA", (W, H), (0, 0, 0, 0))
+    x = (W - im.width) // 2
+    y = (H - im.height) // 2 if top else 610 - im.height
+    cv.paste(im, (x, y), im)
+    return cv
+
+def paint_mask(rgba):
+    a = np.asarray(rgba).astype(np.float32) / 255
+    rgb, alpha = a[..., :3], a[..., 3]
+    mx, mn = rgb.max(-1), rgb.min(-1)
+    lum = rgb @ np.array([0.299, 0.587, 0.114], np.float32)
+    sat = np.where(mx > 0, (mx - mn) / np.maximum(mx, 1e-6), 0)
+    m = ((alpha > 0.6) & (lum > 0.55) & (sat < 0.25)).astype(np.uint8)
+    m = cv2.morphologyEx(m, cv2.MORPH_OPEN, np.ones((3, 3), np.uint8))
+    m = cv2.morphologyEx(m, cv2.MORPH_CLOSE, np.ones((5, 5), np.uint8))
+    # small islands (badges, reflections inside glass) out
+    n, lab, stats, _ = cv2.connectedComponentsWithStats(m)
+    keep = np.zeros_like(m)
+    for i in range(1, n):
+        if stats[i, cv2.CC_STAT_AREA] > 400: keep[lab == i] = 1
+    return keep, lum, alpha
+
+def belt_line(lum, alpha, paint):
+    # lowest glass pixel per column in the upper part of the car = window line
+    glass = (alpha > 0.6) & (lum < 0.45)
+    ys = []
+    for x in range(0, W, 25):
+        col = np.where(glass[:340, x])[0]
+        ys.append(int(col.max()) if len(col) > 8 else None)
+    xs = [i for i, y in enumerate(ys) if y is not None]
+    ys = list(np.interp(range(len(ys)), xs, [ys[i] for i in xs]))
+    pts = [[i * 25, int(y) + 4] for i, y in enumerate(ys)]
+    # smooth
+    sm = []
+    for i in range(len(pts)):
+        win = [p[1] for p in pts[max(0, i - 4): i + 5]]
+        sm.append([pts[i][0], int(np.median(win))])
+    return sm[::2] + [[W, sm[-1][1]]]
+
+def segment(name, view, rgba):
+    paint, lum, alpha = paint_mask(rgba)
+    seeds = SEEDS[name][view]
+    labels = list(seeds.keys())
+    markers = np.zeros((H, W), np.int32)
+    for i, k in enumerate(labels, 1):
+        for (x, y) in seeds[k]:
+            cv2.circle(markers, (x, y), 6, i, -1)
+    if view == "top":
+        car = alpha > 0.6
+        band = np.zeros_like(paint)
+        for x in range(W):
+            r = np.where(car[:, x])[0]
+            if len(r) < 20: continue
+            h = r.max() - r.min()
+            band[int(r.min() + 0.16 * h): int(r.max() - 0.16 * h), x] = 1
+        paint = paint * band
+    markers[paint == 0] = 0
+    # elevation: panel gaps are thin dark lines; add edge strength
+    g = lum.astype(np.float32)
+    elev = black_tophat(g, disk(4)) * 4 + sobel(g)
+    lab = watershed(elev, markers, mask=paint.astype(bool))
+    out = []
+    for i, k in enumerate(labels, 1):
+        if k == "x": continue
+        m = (lab == i).astype(np.uint8)
+        m = cv2.morphologyEx(m, cv2.MORPH_OPEN, np.ones((3, 3), np.uint8))
+        cs, _ = cv2.findContours(m, cv2.RETR_EXTERNAL, cv2.CHAIN_APPROX_NONE)
+        cs = [c for c in cs if cv2.contourArea(c) > 150]
+        if not cs: continue
+        d = ""
+        for c in cs:
+            ap = cv2.approxPolyDP(c, 1.2, True).reshape(-1, 2)
+            d += "M" + " L".join(f"{p[0]},{p[1]}" for p in ap) + "Z"
+        out.append([k, d])
+    return out, lab, labels, paint, lum, alpha
+
+PALETTE = [(238, 51, 56), (46, 156, 202), (246, 166, 35), (123, 177, 82), (155, 89, 182), (52, 73, 94), (230, 126, 34), (26, 188, 156), (120, 120, 120)]
+geo = {}
+for name in SEEDS:
+    geo[name] = {}
+    for view in ("side", "top"):
+        f = f"{SRC}/cut-{'top-' if view == 'top' else ''}{name}.png"
+        rgba = normalise(f, view == "top")
+        rgba.save(f"{OUT}/{name}-{view}.webp", quality=84, method=6)
+        panels, lab, labels, paint, lum, alpha = segment(name, view, rgba)
+        pm = Image.new("RGBA", (W, H), (255, 255, 255, 0)); pm.putalpha(Image.fromarray(paint * 255).filter(__import__("PIL.ImageFilter").ImageFilter.GaussianBlur(1)))
+        pm.save(f"{OUT}/{name}-{view}-paint.webp", quality=70, method=4)
+        entry = {"panels": panels}
+        if view == "side": entry["belt"] = belt_line(lum, alpha, paint)
+        geo[name][view] = entry
+        # review overlay
+        base = np.asarray(rgba.convert("RGB")).astype(np.float32)
+        col = np.zeros_like(base)
+        for i, k in enumerate(labels, 1):
+            col[lab == i] = PALETTE[(i - 1) % len(PALETTE)] if k != "x" else (40, 40, 40)
+        mix = np.where((lab > 0)[..., None], base * 0.45 + col * 0.55, base)
+        img = Image.fromarray(mix.astype(np.uint8))
+        dr = __import__("PIL.ImageDraw").ImageDraw.Draw(img)
+        for k in labels:
+            for (x, y) in SEEDS[name][view][k]:
+                dr.ellipse((x - 6, y - 6, x + 6, y + 6), outline=(0, 0, 0), width=2); dr.text((x + 8, y - 6), k, fill=(0, 0, 0))
+        if view == "side": dr.line([tuple(p) for p in entry["belt"]], fill=(0, 200, 0), width=3)
+        img.save(f"{REVIEW}/seg-{name}-{view}.png")
+        print(name, view, [p[0] for p in panels])
+
+with open(DATA, "w", encoding="utf8") as fh:
+    fh.write("// GENERATED by scripts/segment_panels.py: panel outlines traced on the\n")
+    fh.write("// calculator photos by a watershed over the real panel gaps. Do not edit by hand.\n")
+    fh.write("export const geometry = " + json.dumps(geo) + " as const\n")
